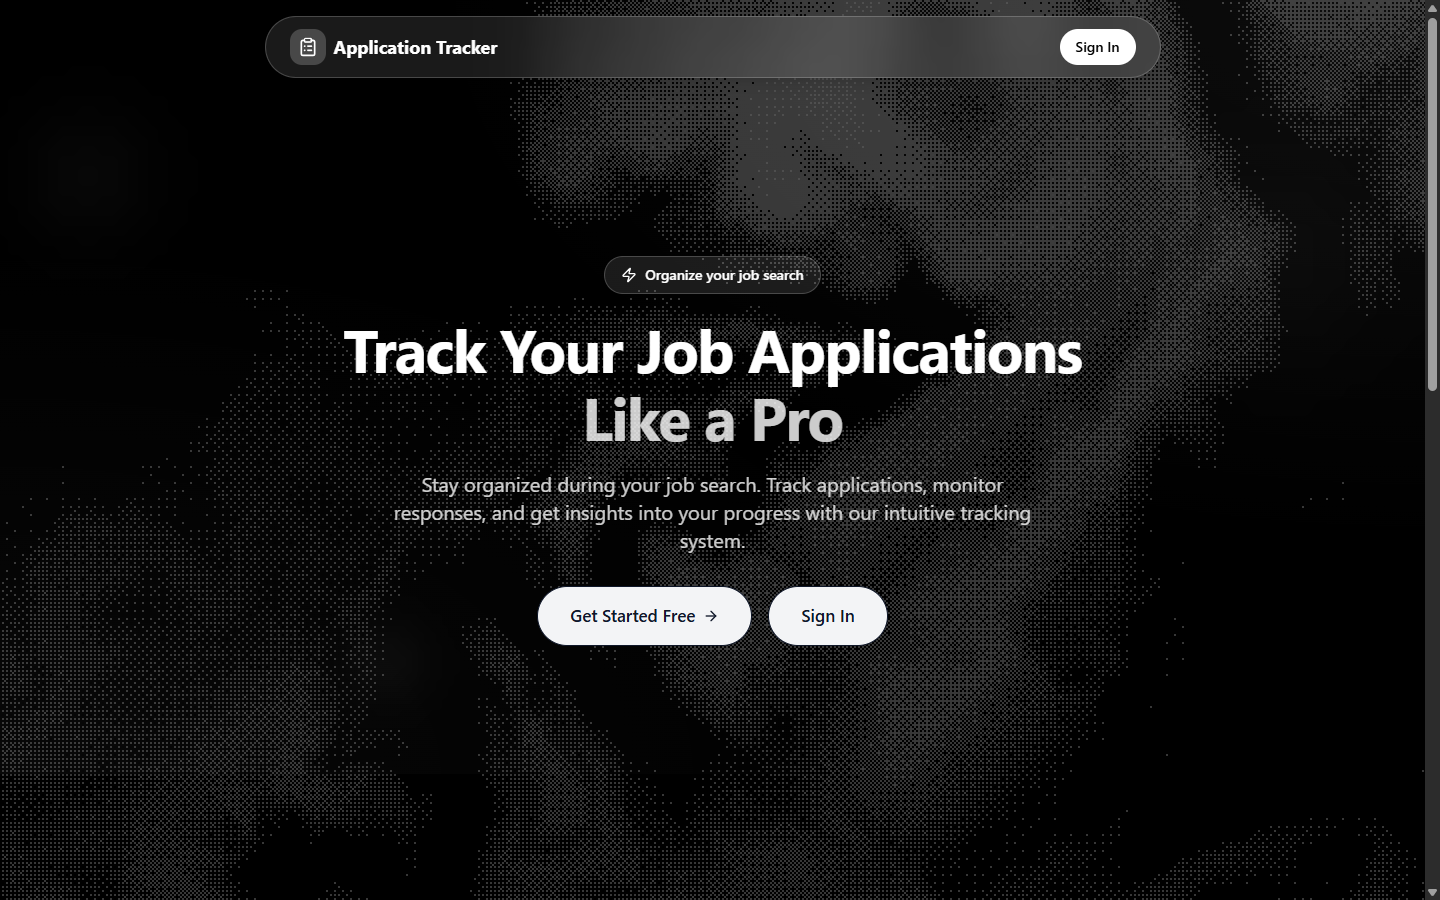
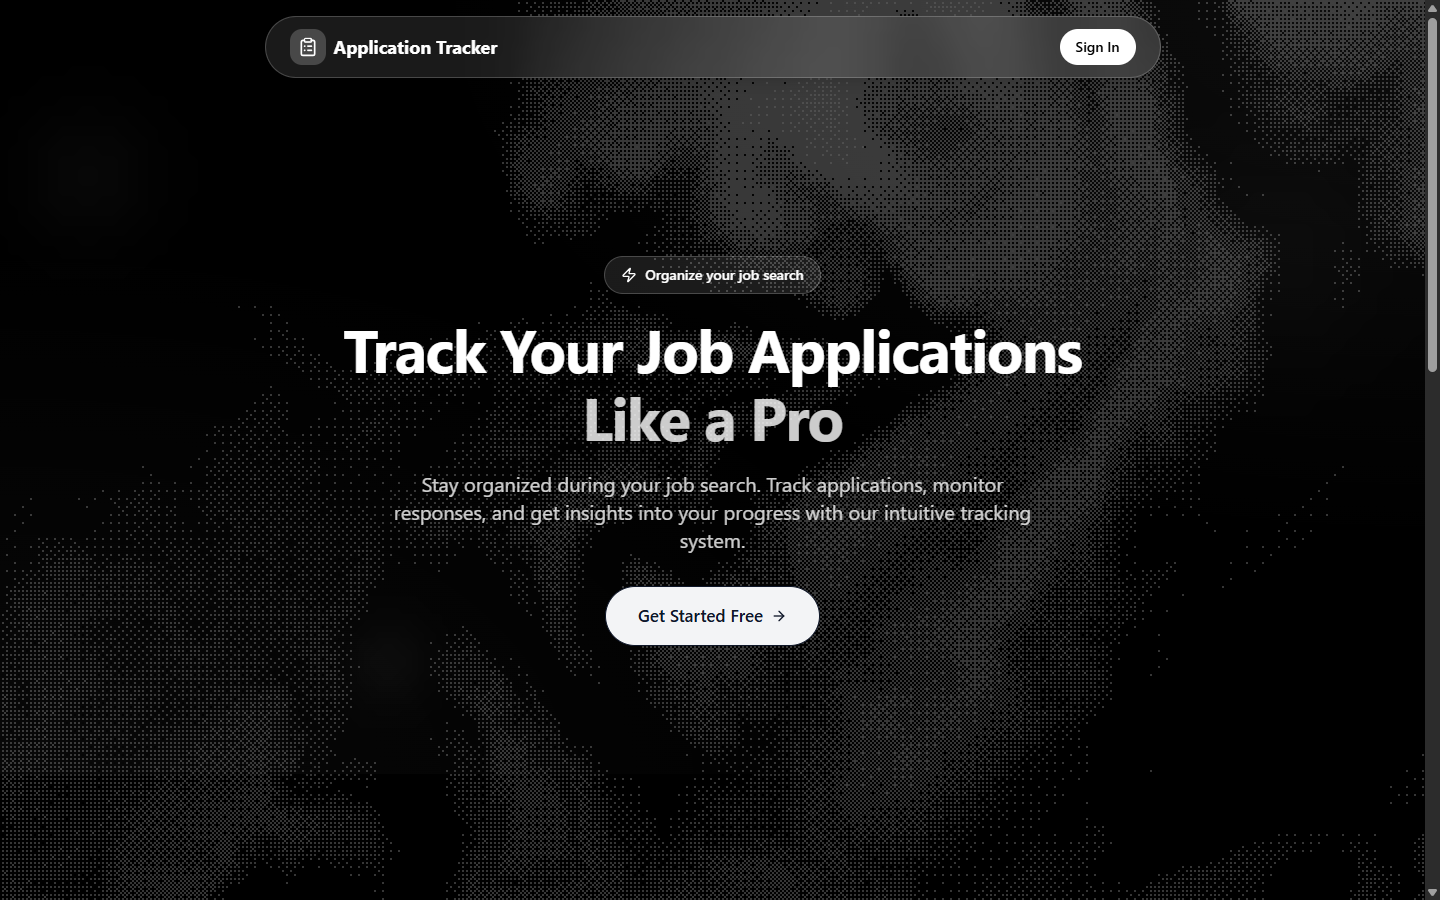
Simplify landing page: one hero button, three features, aligned benefits, Contribute button

diff --git a/src/pages/Index.tsx b/src/pages/Index.tsx
@@ -10,8 +10,11 @@ import {
   Shield, 
   Zap,
   ArrowRight,
-  CheckCircle
+  CheckCircle,
+  Github
 } from 'lucide-react';
+
+const REPOSITORY_URL = 'https://github.com/Vigesh-VS/Application-Tracker';
 
 const features = [
   {
@@ -28,11 +31,6 @@ const features = [
     icon: <Shield className="h-6 w-6" />,
     title: 'Secure & Private',
     description: 'Your data is encrypted and only accessible by you.',
-  },
-  {
-    icon: <Zap className="h-6 w-6" />,
-    title: 'Bulk Operations',
-    description: 'Update or delete multiple applications at once to save time.',
   },
 ];
 
@@ -168,17 +166,12 @@ export default function Index() {
                     </Link>
                   </Button>
                 ) : (
-                  <>
-                    <Button asChild variant="retro" size="retro" className="gap-2" data-hover>
-                      <Link to="/signup">
-                        Get Started Free
-                        <ArrowRight className="h-5 w-5" />
-                      </Link>
-                    </Button>
-                    <Button asChild variant="retro" size="retro" data-hover>
-                      <Link to="/login">Sign In</Link>
-                    </Button>
-                  </>
+                  <Button asChild variant="retro" size="retro" className="gap-2" data-hover>
+                    <Link to="/signup">
+                      Get Started Free
+                      <ArrowRight className="h-5 w-5" />
+                    </Link>
+                  </Button>
                 )}
               </div>
             </AnimatedSection>
@@ -198,7 +191,7 @@ export default function Index() {
             </p>
           </AnimatedSection>
 
-          <div className="grid md:grid-cols-2 lg:grid-cols-4 gap-6">
+          <div className="grid md:grid-cols-3 gap-6 max-w-5xl mx-auto">
             {features.map((feature, index) => (
               <FeatureCard key={feature.title} feature={feature} index={index} />
             ))}
@@ -223,15 +216,9 @@ export default function Index() {
 
             {/* Benefits Grid */}
             <AnimatedSection>
-            <ul className="grid md:grid-cols-2 gap-4 max-w-2xl mx-auto">
-                {benefits.map((benefit, index) => (
-                  <li 
-                    key={benefit} 
-                    className={cn(
-                      "flex items-start gap-3 group",
-                      index === benefits.length - 1 && "md:col-span-2 md:justify-center"
-                    )}
-                  >
+            <ul className="grid gap-4 w-fit max-w-full mx-auto">
+                {benefits.map((benefit) => (
+                  <li key={benefit} className="flex items-start gap-3">
                     <CheckCircle className="h-5 w-5 text-green-400 mt-0.5 flex-shrink-0" />
                     <span className="text-white/90">{benefit}</span>
                   </li>
@@ -250,7 +237,8 @@ export default function Index() {
               Ready to Get Organized?
             </h2>
             <p className="text-white/80 mb-8 max-w-xl mx-auto">
-              Join thousands of job seekers who use Application Tracker to manage their applications.
+              Paste a job link and let AI fill in the details, follow every application from applied to offer,
+              and see exactly where your job search stands. Free to use with your Google account.
             </p>
             
             {!user && (
@@ -273,12 +261,18 @@ export default function Index() {
       {/* Footer */}
       <footer className="border-t border-white/10 py-8 bg-black/50 backdrop-blur-sm">
         <div className="container mx-auto px-4 flex flex-col md:flex-row items-center justify-between gap-4">
-          <div className="flex items-center gap-2 group" data-hover>
-            <div className="p-1.5 rounded-lg bg-white/20 transition-transform duration-300 group-hover:scale-110">
-              <ClipboardList className="h-4 w-4 text-white" />
-            </div>
-            <span className="font-display font-semibold text-white">Application Tracker</span>
-          </div>
+          <Button
+            asChild
+            variant="outline"
+            size="sm"
+            className="rounded-full gap-2 border-white/30 bg-white/5 text-white hover:bg-white/15 hover:text-white"
+            data-hover
+          >
+            <a href={REPOSITORY_URL} target="_blank" rel="noopener noreferrer">
+              <Github className="h-4 w-4" />
+              Contribute
+            </a>
+          </Button>
           <p className="text-sm text-white/80">
             Made by Vigesh
           </p>

diff --git a/docs/PROGRESS.md b/docs/PROGRESS.md
@@ -39,6 +39,13 @@
 - README rewritten for the public repository: screenshots (sample data), feature list, flowcharts, setup, security and performance.
 - Supabase migration steps moved to `docs/MIGRATION.md`.
 
+### Landing page
+- Hero: single centered *Get Started Free* button.
+- *Everything You Need*: three features (Bulk Operations removed), evenly aligned.
+- *Take Control*: benefits in one aligned column.
+- *Ready to Get Organized?*: description rewritten to describe this app.
+- Footer: *Contribute* button (links to the GitHub repository) replaces the logo.
+
 ## Known limits
 - The rate limit lives in server memory, so it is per Vercel instance.
 - Naukri blocks automated reads; use *Paste job description*.
